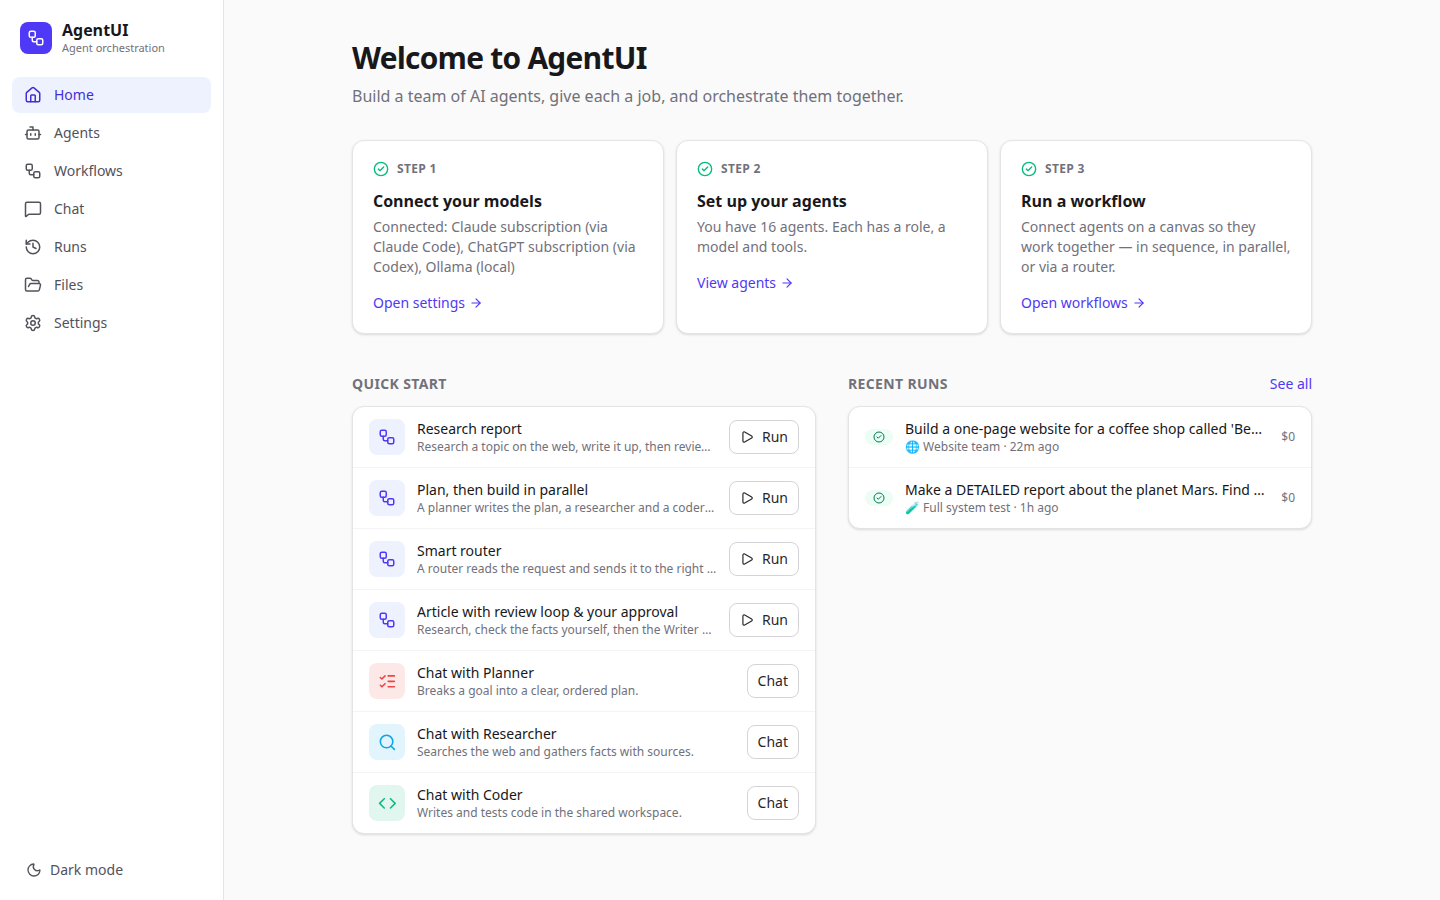
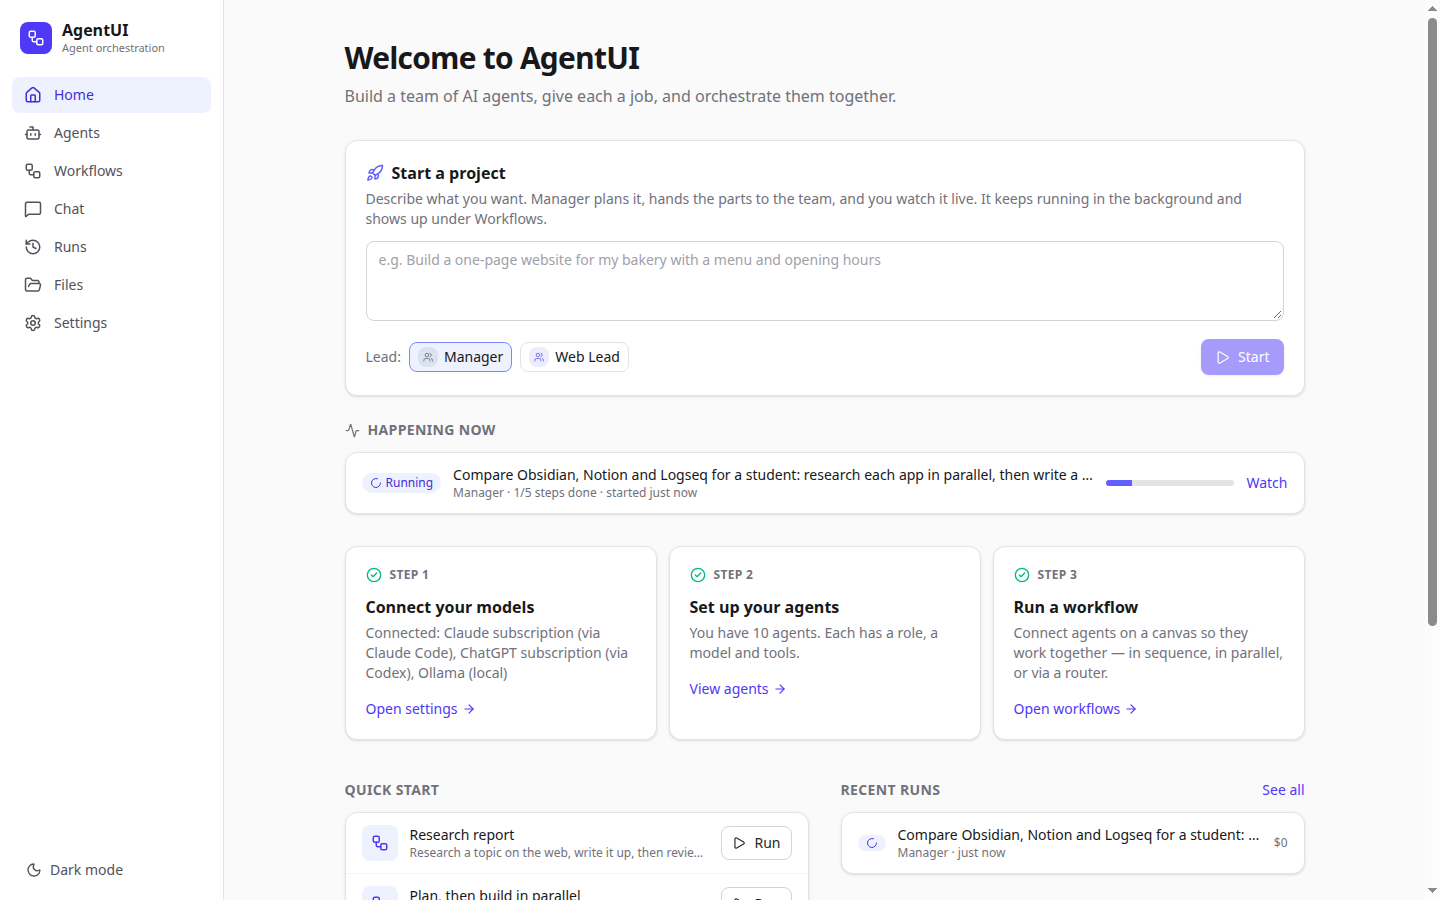
README: projects with the Manager, new screenshots
- New "Projects: give the Manager a task" section: live plan, background
  runs, follow-ups in the same conversation, projects under Workflows.
- Highlights, quick start, how it works, layout and troubleshooting updated.
- New screenshots (taken from a clean demo setup): live plan, follow-up,
  Workflows with a running project, Home with "Start a project".
- AGENTUI_DATA_DIR lets you keep a separate data folder (e.g. a demo).

diff --git a/backend/app/db.py b/backend/app/db.py
@@ -2,6 +2,7 @@
 from __future__ import annotations
 
 import json
+import os
 import sqlite3
 import threading
 import time
@@ -9,8 +10,9 @@ import uuid
 from pathlib import Path
 from typing import Any
 
-DATA_DIR = Path(__file__).resolve().parent.parent / "data"
-DATA_DIR.mkdir(exist_ok=True)
+# AGENTUI_DATA_DIR lets you keep separate setups (e.g. a demo or a test copy)
+DATA_DIR = Path(os.environ.get("AGENTUI_DATA_DIR") or Path(__file__).resolve().parent.parent / "data")
+DATA_DIR.mkdir(parents=True, exist_ok=True)
 WORKSPACE_DIR = DATA_DIR / "workspace"
 WORKSPACE_DIR.mkdir(exist_ok=True)
 DB_PATH = DATA_DIR / "agentui.db"

diff --git a/README.md b/README.md
@@ -1,6 +1,6 @@
 # AgentUI
 
-**A local web app for building a team of AI agents and orchestrating them.** Give each agent a role, a model and tools. Then connect them on a visual canvas, or hand a big task to a lead agent that splits it up and delegates the parts. You can watch every step live.
+**A local web app for building a team of AI agents and orchestrating them.** Give each agent a role, a model and tools. Then connect them on a visual canvas, or just **tell the Manager what you want**: it plans the work as a workflow, hands the parts to the team, and you watch the plan fill in live while you keep talking to it.
 
 It works with your **Claude, ChatGPT and Gemini subscriptions** (no API key needed), **free local models via Ollama**, and **any API-key provider**. You can mix all of these in a single workflow.
 
@@ -12,6 +12,7 @@ It works with your **Claude, ChatGPT and Gemini subscriptions** (no API key need
 
 - [Highlights](#highlights)
 - [Quick start](#quick-start)
+- [Projects: give the Manager a task](#projects-give-the-manager-a-task)
 - [Connecting models](#connecting-models)
 - [Core concepts](#core-concepts)
 - [Autonomy and safety](#autonomy-and-safety)
@@ -30,11 +31,12 @@ It works with your **Claude, ChatGPT and Gemini subscriptions** (no API key need
 
 | | |
 |---|---|
+| 🧭 **Projects with a lead agent** | Tell the **Manager** what you want. It lays out a plan (who does what, in which order, what runs in parallel), shows it as a **live workflow**, delegates every step and reports back. It keeps running in the background, shows up under **Workflows**, and you can **keep the conversation going** to change or extend the result. |
 | 🧑🤝🧑 **Agents** | Each agent has a role, a model, tools, a creativity setting and a step limit. Lead agents can hand work to a chosen **team**, including **several tasks at once that run in parallel**. |
 | 🔀 **Visual workflows** | Drag agents onto a canvas and connect them. Steps fed by the same step run **in parallel**, and a step with several inputs **waits for all of them**. A **Router** sends work down one branch, a **Review loop** repeats until a reviewer approves, and **Your approval** pauses the run for you. |
 | 🔑 **Subscriptions, local or API** | Claude Pro/Max (via Claude Code), ChatGPT Plus/Pro (via Codex CLI), Gemini (via Gemini CLI), Ollama, Anthropic, OpenAI, Gemini API, OpenRouter, and any OpenAI-compatible server. |
 | 📺 **Live runs** | Text streams in as it's written. You see every tool call, every hand-off between agents, review rounds, approvals, tokens and cost, and the canvas lights up as steps run. You can stop a run at any time. |
-| 🛠 **Tools** | Web search, reading web pages, HTTP APIs, files (read, write, edit, with syntax checks on save), a website QA checker, and Python and shell code in a **Docker sandbox**. |
+| 🛠 **Tools** | Web search, reading web pages and **public GitHub repos**, HTTP APIs, files (read, write, edit, with syntax checks on save), a website QA checker, and Python and shell code in a **Docker sandbox**. |
 | 🔌 **MCP tool servers** | Connect GitHub, Slack, email, databases, browsers and thousands more. Search the **official MCP registry** from the app. Servers that need an account get a **one-click login (OAuth)**. |
 | 🛡 **Safety** | Every tool has a rule: **Allow / AI check / Ask me / Block**. Approval steps have three modes. There's an **Autonomous** switch, a cost limit, timeouts, and sandboxed website previews. |
 | 🌐 **Website preview** | Agents build sites in the shared workspace, and you preview them on desktop, tablet and phone sizes, safely sandboxed. |
@@ -49,7 +51,7 @@ It works with your **Claude, ChatGPT and Gemini subscriptions** (no API key need
 <td><img src="docs/screenshots/website-preview.png" alt="Website preview"><br><sub><b>Website preview</b> of a site the agents built in about 2 minutes</sub></td>
 </tr>
 <tr>
-<td><img src="docs/screenshots/home.png" alt="Home"><br><sub><b>Home:</b> getting started, quick runs, recent runs</sub></td>
+<td><img src="docs/screenshots/home.png" alt="Home"><br><sub><b>Home:</b> start a project and see what's happening now</sub></td>
 <td><img src="docs/screenshots/dark-workflow.png" alt="Dark mode"><br><sub><b>Dark mode</b></sub></td>
 </tr>
 </table>
@@ -72,13 +74,36 @@ Then:
 
 1. **Settings:** connect at least one model source (see below).
 2. **Agents:** pick a model for each agent, or set one **default model** for all of them.
-3. **Workflows:** open a template and click **Run**. You can also chat with a single agent under **Chat**.
+3. **Home → Start a project** (or **Chat → Manager**): describe what you want and watch the team work. You can also build your own workflow under **Workflows**, or chat with a single agent under **Chat**.
 
 ### Development mode
 
 ```bash
 ./dev.sh   # backend with auto-reload on :8000, UI with hot reload on :3000
 ```
+
+---
+
+## Projects: give the Manager a task
+
+The quickest way to use AgentUI is to talk to the **Manager**, either in **Chat → Manager** or with **Start a project** on the Home page. You describe the job; the Manager coordinates and never does the work itself.
+
+![The Manager's live plan: three Researchers working in parallel, then a Writer and a Reviewer](docs/screenshots/manager-live-plan.png)
+
+1. **It plans first.** The Manager splits the request into steps, picks a teammate for each (by their descriptions) and decides what can run in parallel. The plan appears as a **live workflow** at the top of the conversation.
+2. **The team works.** Every step goes *waiting → running → done* on the diagram, and each hand-off, web search, file write and answer shows up below it. Anything that needs the internet or GitHub goes to the Researcher, files go to the Coder, writing goes to the Writer.
+3. **It reports back** with the combined result and one line on who did what. If its plan changes on the way, the diagram updates.
+4. **Keep talking.** Replies like *"find 3 more"* or *"turn it into a table"* continue the **same project**: the Manager gets the conversation so far, the earlier steps stay on the diagram, and it builds on the earlier work instead of starting over. **New project** starts fresh.
+
+![A follow-up in the same conversation: the earlier request and the new answer](docs/screenshots/manager-follow-up.png)
+
+**It runs in the background.** Projects run on the server, so you can leave the page, look at other things, or close the tab. Come back to the chat and the whole conversation is there, including work that finished while you were away.
+
+**It shows up under Workflows.** Every project is saved as a workflow named after your task, with a live status ("Running · 2/5 steps", then "Done"), a **Watch live** button, and **Run again**. You can open it in the editor and change it like any other workflow. The Home page lists everything that's running under **Happening now**.
+
+![Workflows: a project being worked on, at the top of the list](docs/screenshots/workflows-projects.png)
+
+> **Lead agents** are agents with the *Ask another agent* tool, like **Manager** and **Web Lead**. Give one a **Team** (in its settings) to control which agents it may use. Lead agents get a planning tool (`update_plan`) automatically.
 
 ---
 
@@ -128,7 +153,7 @@ Rules: a step that feeds several steps runs them **in parallel**, and a step wit
 
 ### Runs and chat
 
-Every workflow run is saved, with a live canvas, a timeline for each step, the final result, tokens and cost. You can stop or re-run any of them. **Chat** lets you talk to a single agent, which is handy for testing an agent before putting it in a workflow.
+Every workflow run is saved, with a live canvas, a timeline for each step, the final result, tokens and cost. You can stop or re-run any of them. **Chat** lets you talk to a single agent, which is handy for testing an agent before putting it in a workflow. Chatting with a **lead agent** (like the Manager) starts a [project](#projects-give-the-manager-a-task) instead.
 
 ---
 
@@ -215,6 +240,7 @@ flowchart LR
 
 - **The engine** runs the workflow graph. A step starts when all of its inputs are finished or skipped. Routers mark the branches they didn't choose as skipped, review loops and approvals run inside their own step, and errors stop the run.
 - **The agent loop** streams model output, runs tool calls (concurrently when there are several), applies the tool safety rules, and repeats until the model gives a final answer or reaches its step limit.
+- **Projects:** a task for a lead agent runs as a background run. The lead's `update_plan` calls and every hand-off update the plan, which is streamed to the UI and saved as a workflow. A follow-up starts a new run with the conversation so far and the earlier plan.
 - **Subscription models** run the vendor's CLI headless. The agent's tools are offered to the CLI through `mcp_bridge.py`, which calls back into the engine, so policies, approvals and the live timeline all still apply.
 - **Live events** are stored in SQLite and streamed to the UI over WebSockets. A run you open midway shows its full history so far.
 
@@ -236,12 +262,14 @@ backend/app/
   seed.py          starter agents and workflows
 backend/examples/  full-system-test builder and test MCP servers
 frontend/src/
-  pages/           Home, Agents, Workflows, WorkflowEditor, RunView, Chat, Runs, Files, Settings
-  components/      canvas nodes, activity timeline, model picker, MCP settings, UI kit
+  pages/           Home, Agents, Workflows, WorkflowEditor, RunView, Chat, LeadChat (Manager conversations),
+                   Runs, Files, Settings
+  components/      canvas nodes, live plan diagram (PlanBoard), activity timeline, model picker,
+                   MCP settings, UI kit
 docs/screenshots/  images used in this README
 ```
 
-All data (agents, workflows, runs, settings, API keys, OAuth tokens) lives in `backend/data/` on your machine. To reset everything, stop the server and delete that folder.
+All data (agents, workflows, projects, runs, settings, API keys, OAuth tokens, and the agents' workspace) lives in `backend/data/` on your machine. To reset everything, stop the server and delete that folder. To keep a separate setup, for example a demo, point `AGENTUI_DATA_DIR` at another folder: `AGENTUI_DATA_DIR=~/agentui-demo ./start.sh`.
 
 ---
 
@@ -252,7 +280,7 @@ AgentUI is a **single-user app for your own computer**:
 - The server listens on `127.0.0.1` only, and has **no login**, so don't expose it to a network.
 - Requests that change things, and WebSocket connections, are only accepted from AgentUI's own pages. Other websites you have open can't use the API.
 - Website previews are served with a CSP `sandbox` header. Agent-written JavaScript runs on its own isolated origin, even when opened in a new tab, and can't read or change anything in AgentUI.
-- File tools can't leave the workspace folder. Code runs only in the Docker sandbox, which has no network access.
+- File tools can't leave the workspace folder. Code runs only in the Docker sandbox, which has no network access, and runs as your user, so the files it creates stay yours.
 - Local MCP servers run with **your** user's permissions, so only add ones you trust.
 - API keys and OAuth tokens are stored unencrypted in the local SQLite database.
 
@@ -268,6 +296,8 @@ AgentUI is a **single-user app for your own computer**:
 | A local model writes broken files | AgentUI syntax-checks files on save and tells the agent to fix them. Still, use a stronger or coding model (e.g. `qwen2.5-coder`) for coding agents. |
 | Web search returns nothing | The free search engines sometimes block automated queries. AgentUI tries several in turn; try again later or rephrase. |
 | An MCP server **can't connect** | Check that its command is installed (`npx`, `uvx`, `docker`), that required environment variables or headers are filled in, or click **Log in** if shown. |
+| The Manager's chat or projects look like an older version | After updating, restart the server and reload the page with **Ctrl+Shift+R**: an open tab keeps the old page until it's reloaded. |
+| A project stopped with *"Server restarted"* | Projects run inside the server, so stopping the server stops them. Open the project and send a follow-up such as *"continue"*. |
 | *"Port 3000 is already in use"* | AgentUI is probably already running. Open it, or run `PORT=4000 ./start.sh`. |
 
 ---
